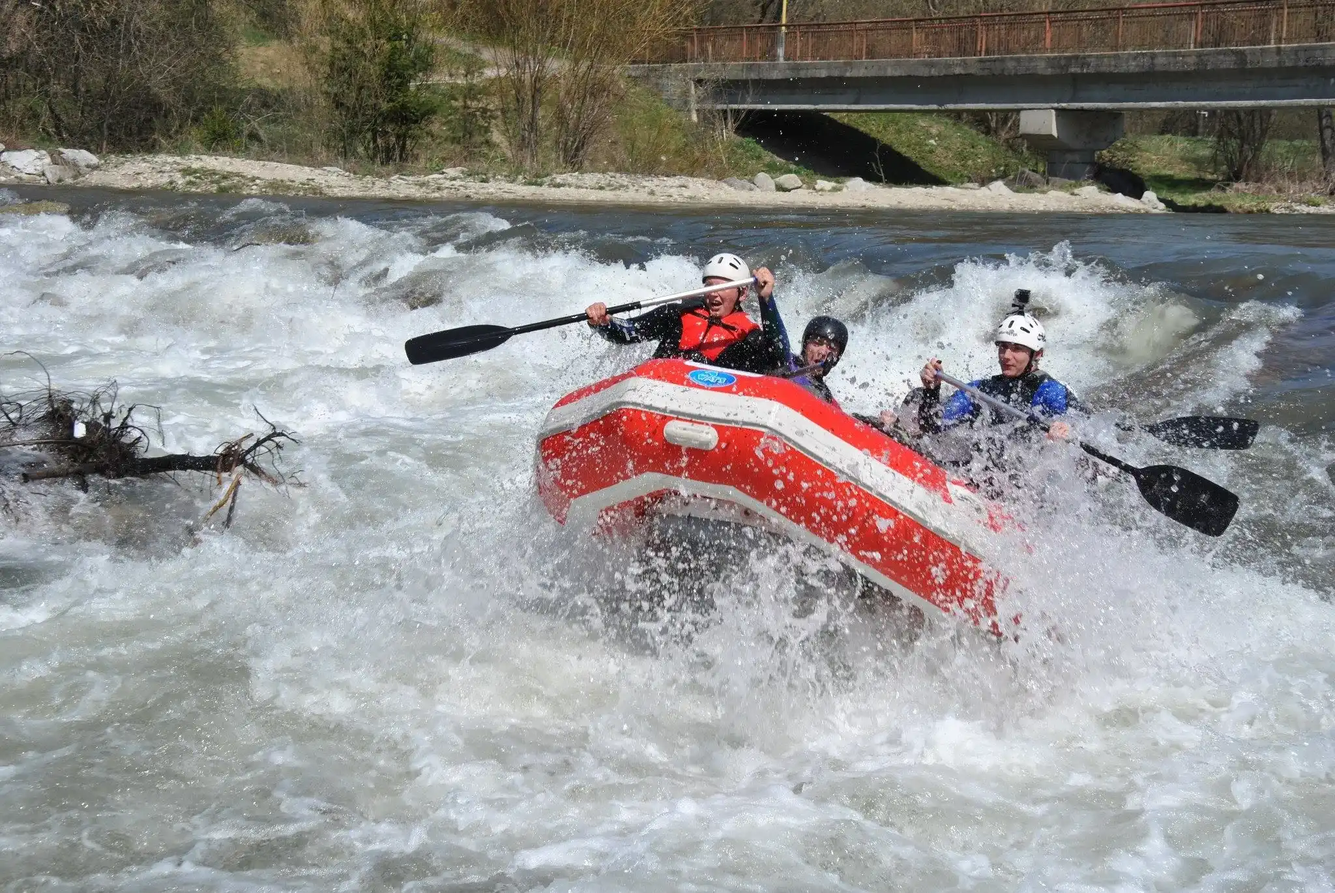
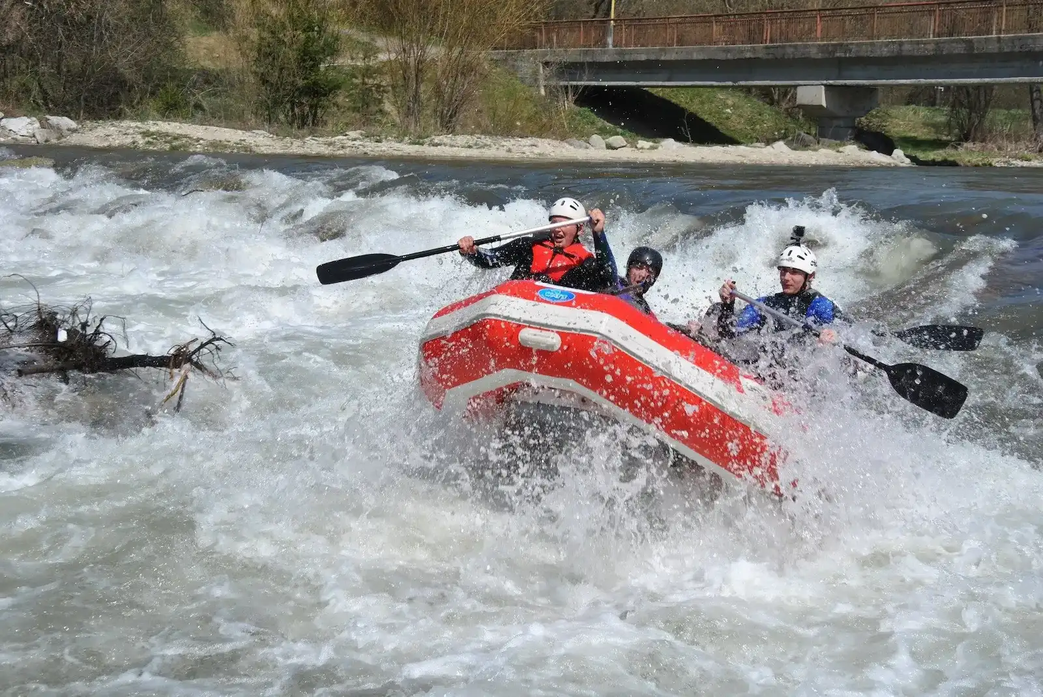
2

Changed region(s): [[0.4688, 0.3393, 0.5312, 0.4009], [0.75, 0.4318, 0.7812, 0.4626]]

diff --git a/app/UI/Homepage/Hero.js b/app/UI/Homepage/Hero.js
@@ -102,43 +102,12 @@ export default function Hero() {
     initial: { opacity: 0 },
     animate: {
       opacity: 1,
-      transition: { duration: 0.8, ease: "easeInOut" },
+      transition: { duration: 0.5, ease: "easeInOut" },
     },
     exit: {
       opacity: 0,
-      transition: { duration: 0.8, ease: "easeInOut" },
+      transition: { duration: 0.5, ease: "easeInOut" },
     },
-  };
-
-  const contentVariants = {
-    initial: { opacity: 0, y: 100, rotate: 10 },
-    animate: {
-      opacity: 1,
-      y: 0,
-      rotate: 0,
-      transition: {
-        duration: 0.7,
-        ease: "easeOut",
-        type: "spring",
-        bounce: 0.3,
-      },
-    },
-    exit: {
-      opacity: 0,
-      y: -100,
-      rotate: -10,
-      transition: { duration: 0.5, ease: "easeIn" },
-    },
-  };
-
-  const arrowVariants = {
-    initial: { scale: 1 },
-    hover: {
-      scale: 1.3,
-      rotate: 10,
-      transition: { yoyo: Infinity, duration: 0.5 },
-    },
-    tap: { scale: 0.9, rotate: -10 },
   };
 
   const socialVariants = {
@@ -158,7 +127,7 @@ export default function Hero() {
           key={slides[currentSlide].background}
           className="absolute inset-0 z-0"
           variants={backgroundTransition}
-          initial="initial"
+          initial={currentSlide === 0 ? false : "initial"} // brak animacji na pierwszym slajdzie
           animate="animate"
           exit="exit"
           style={{
